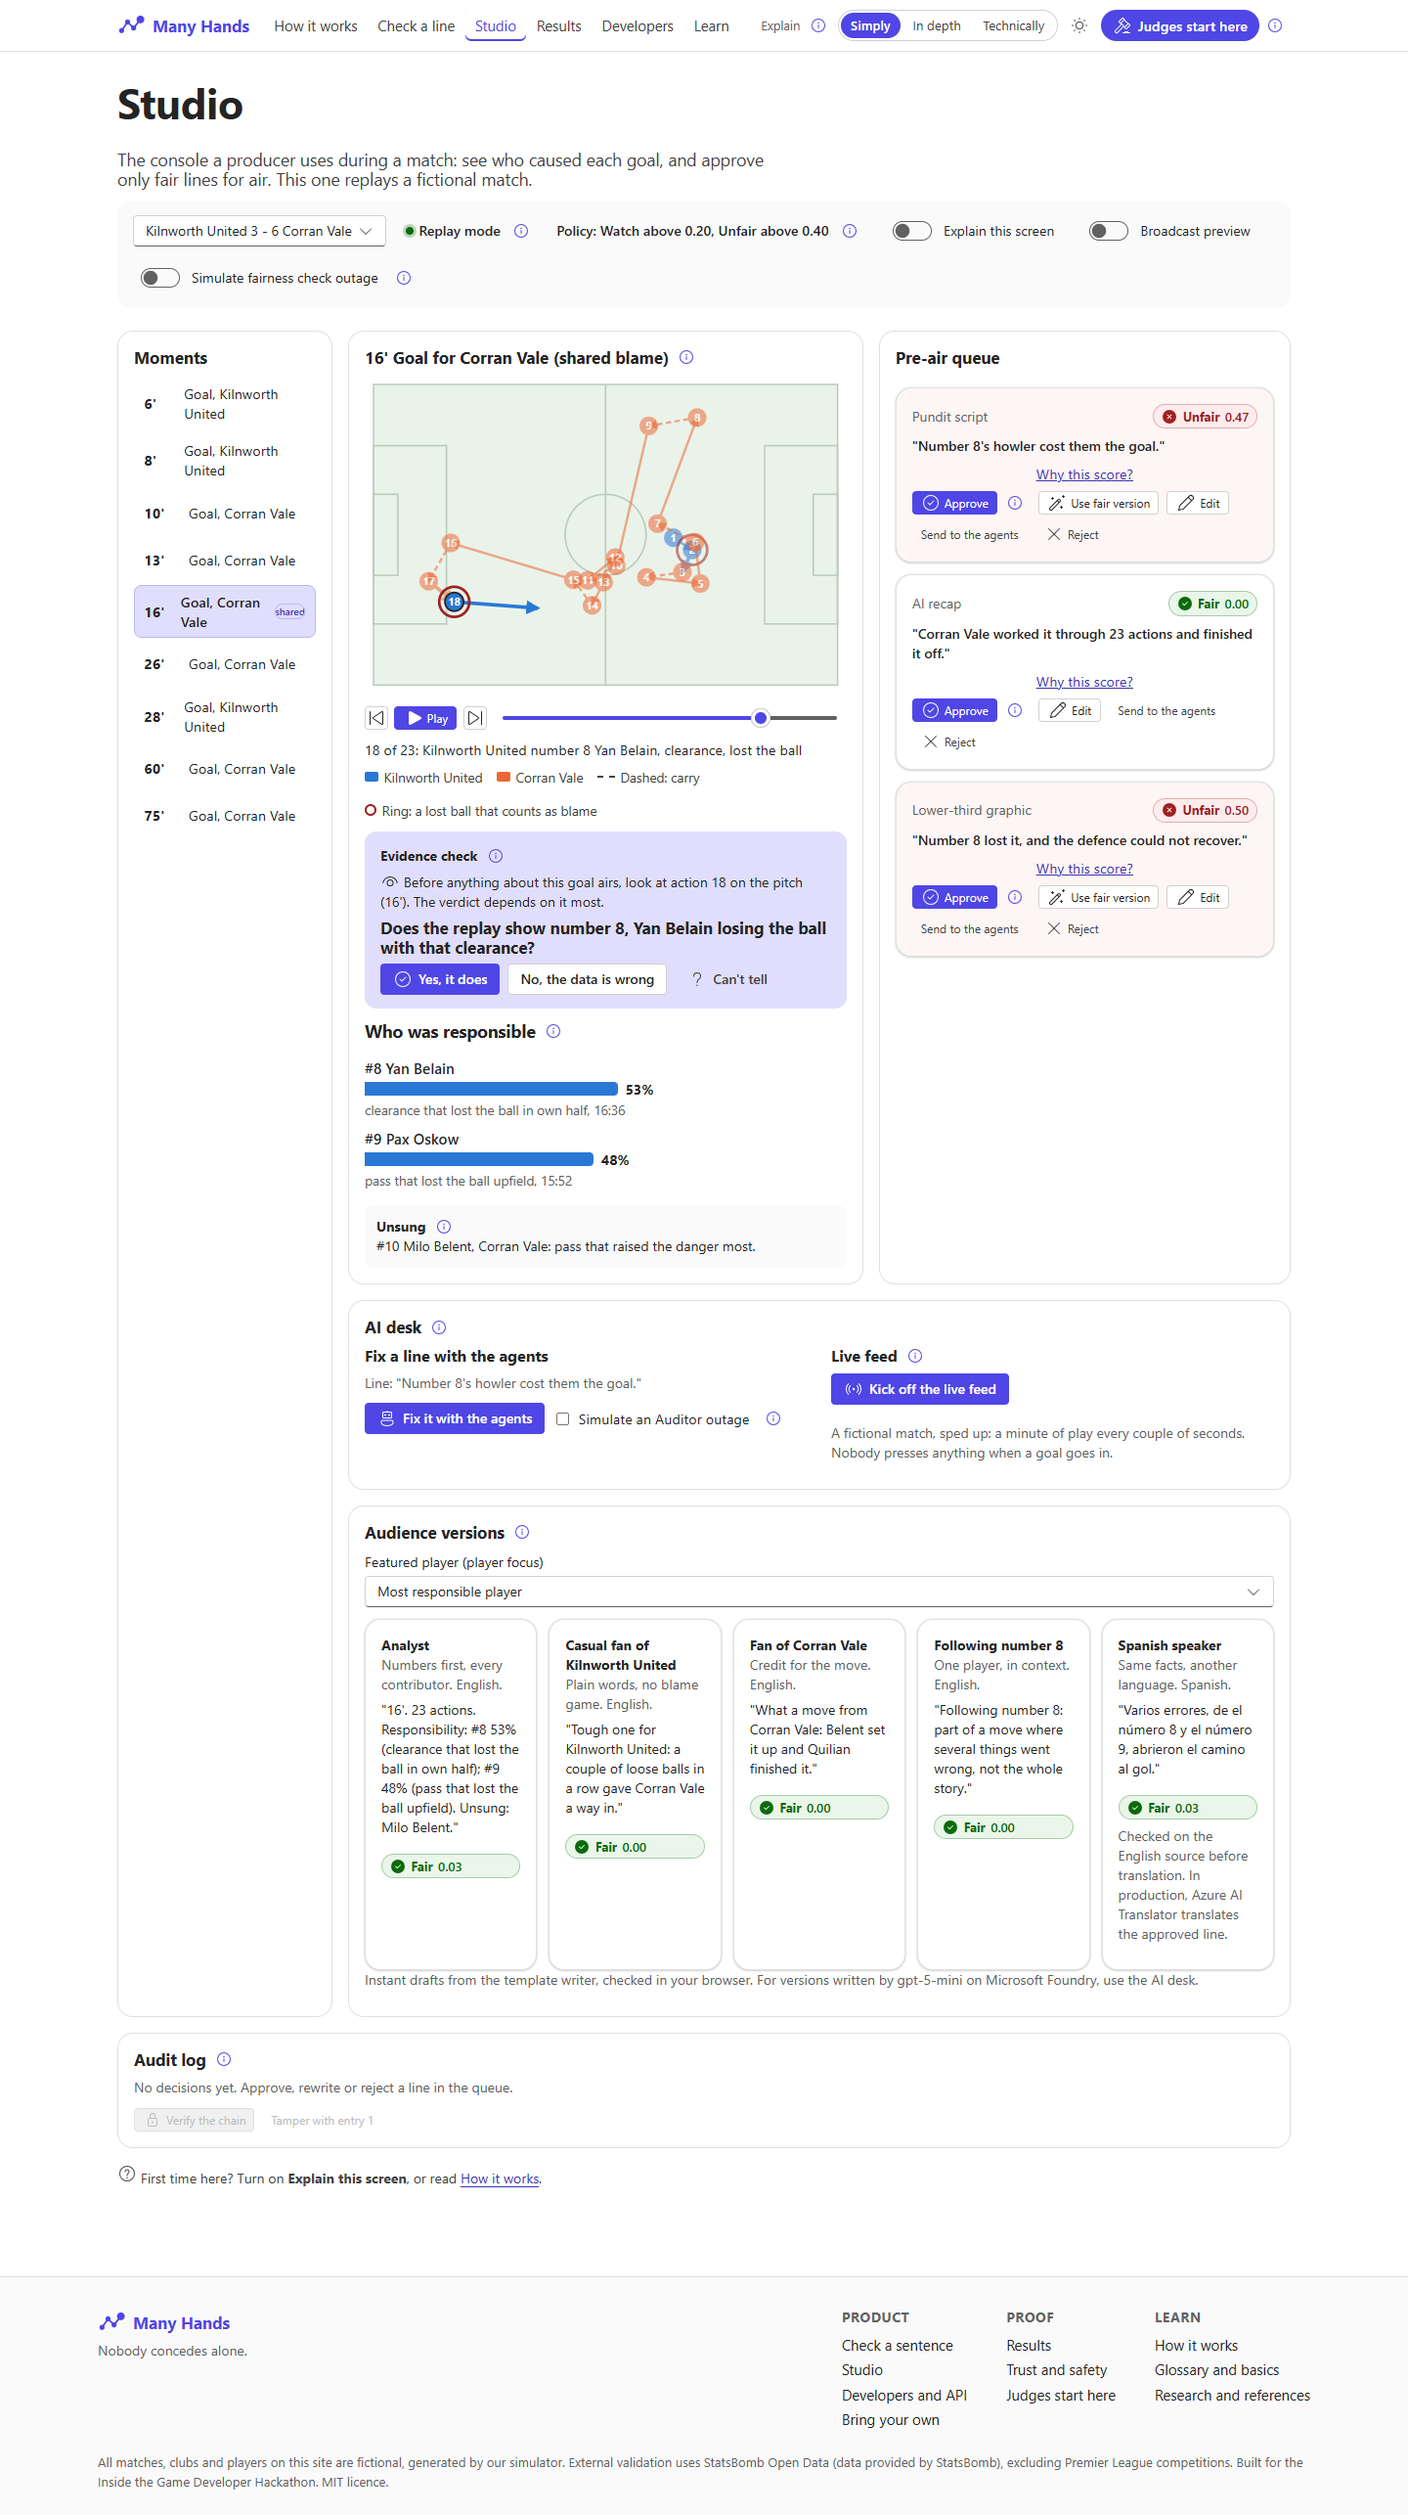
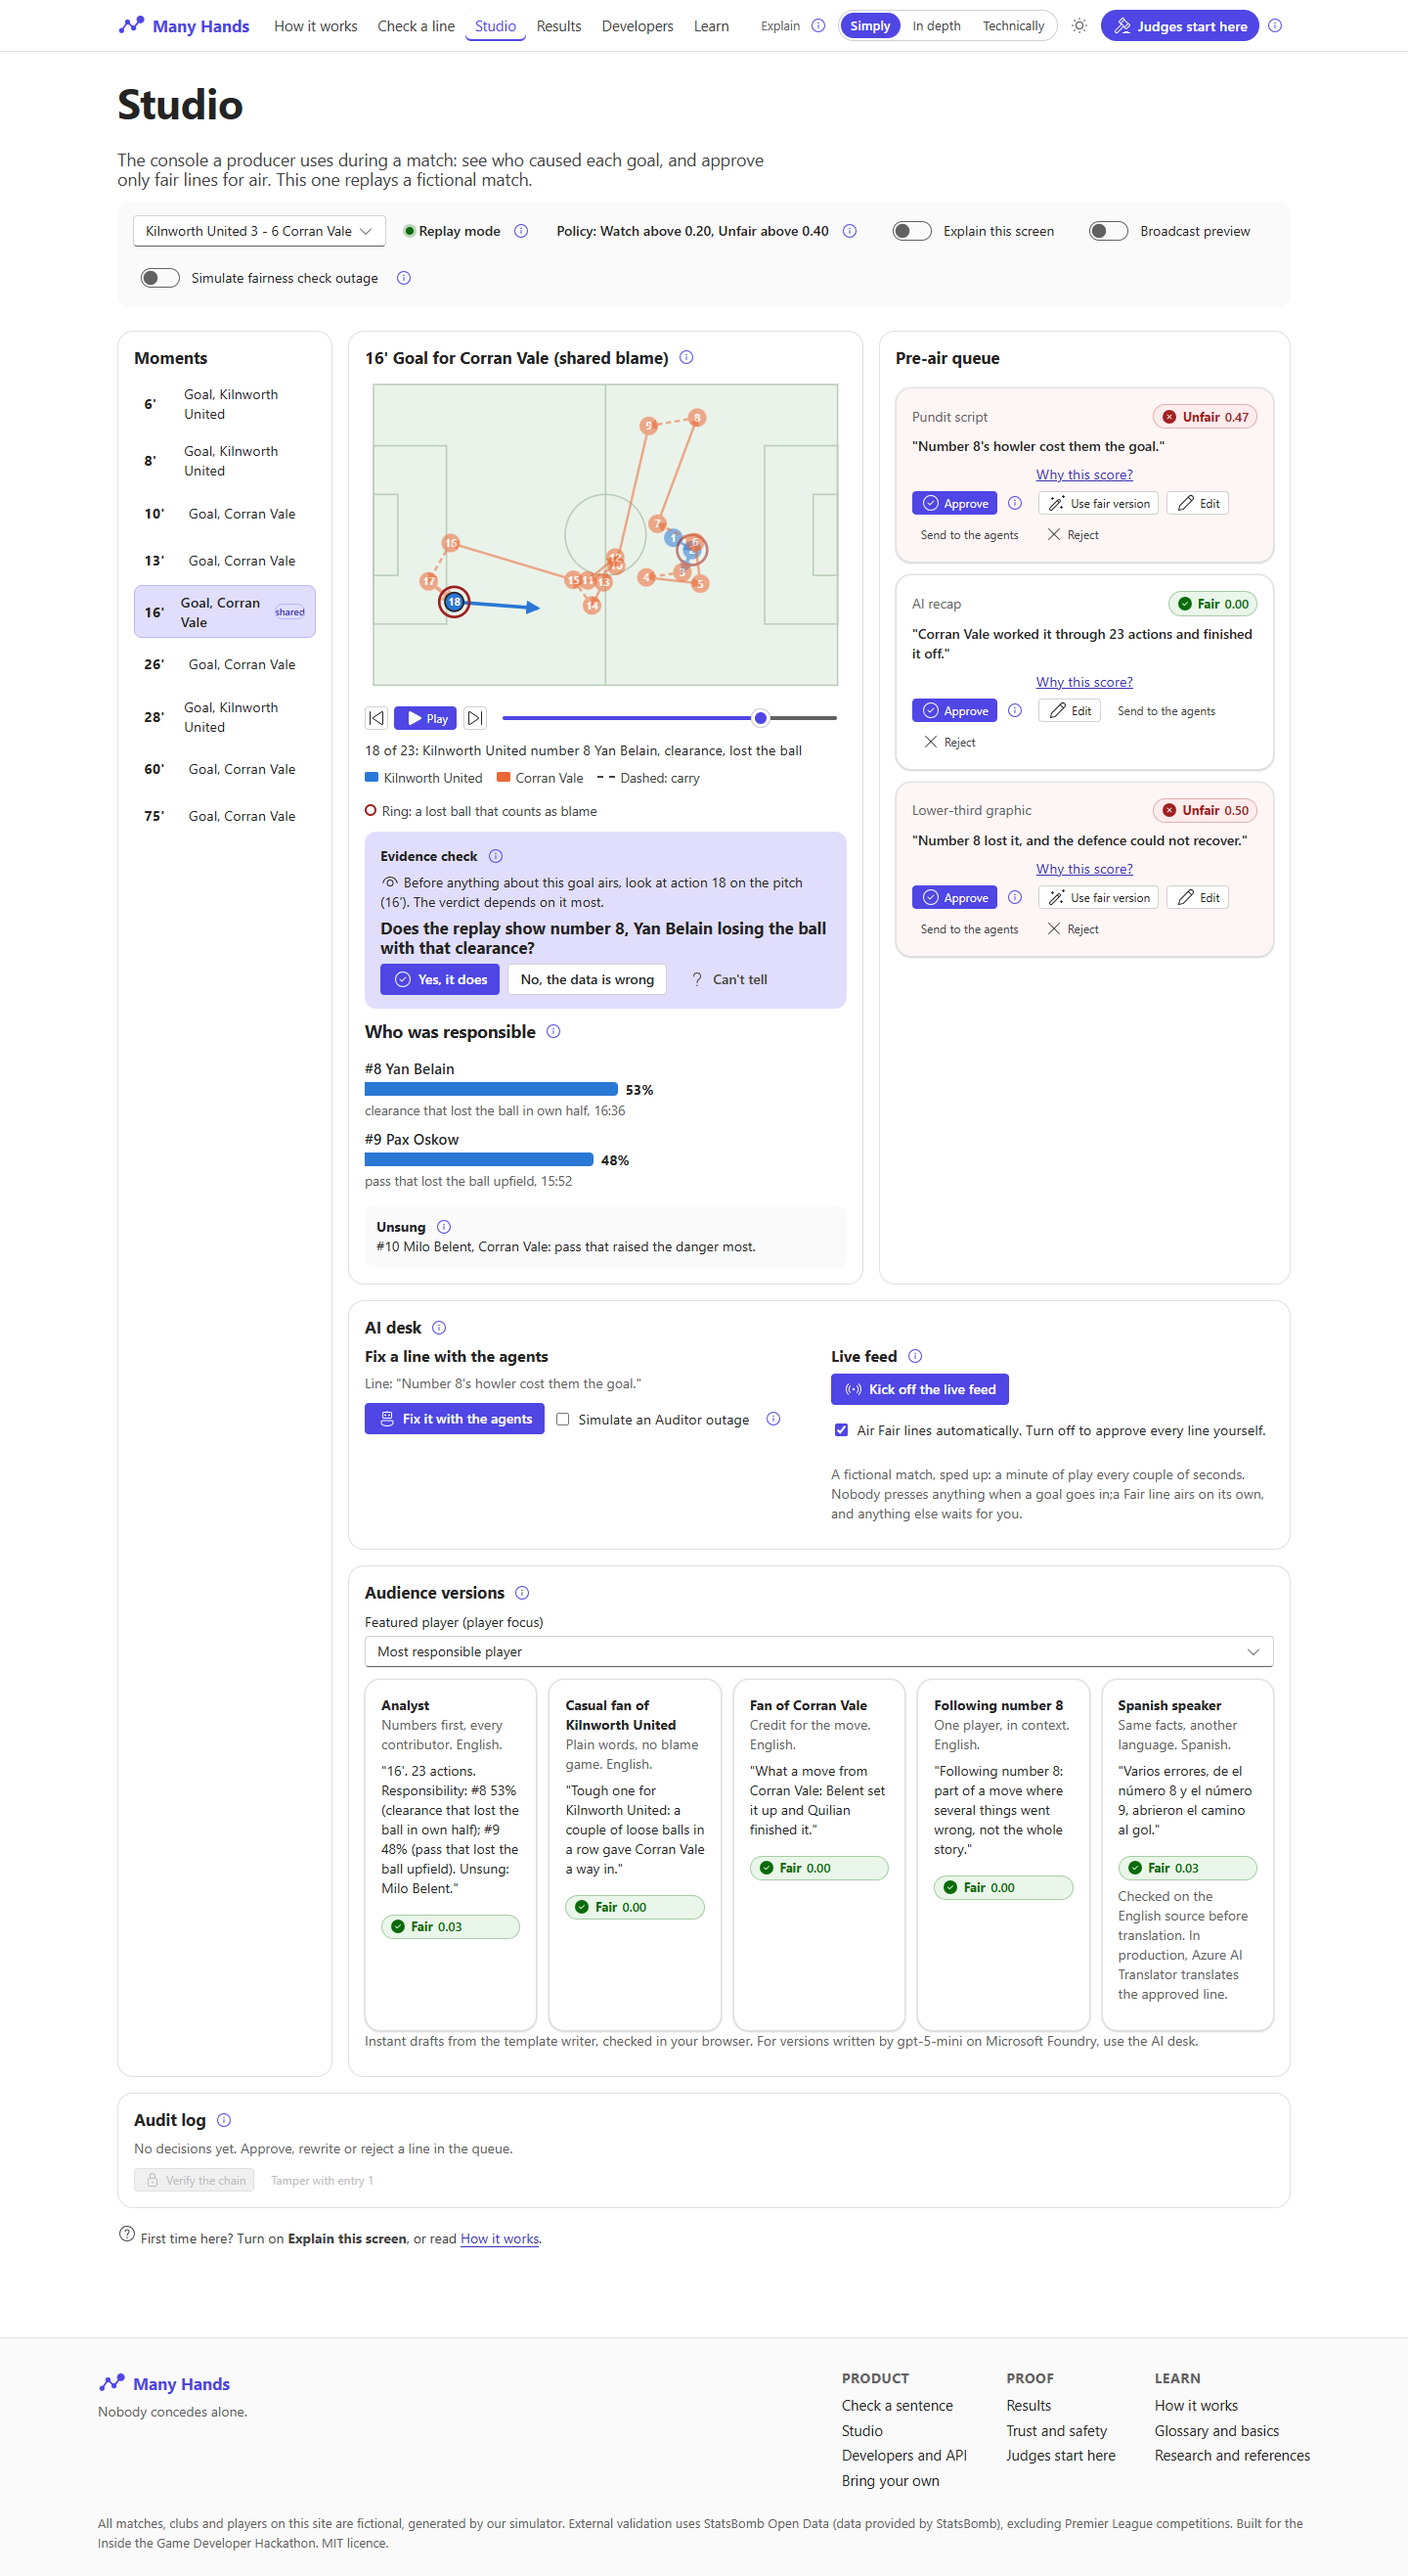
Scoreline dashes survive cleaning; stacked version rows; live timing at graphic send

diff --git a/apps/web/src/styles.css b/apps/web/src/styles.css
@@ -460,13 +460,12 @@ main:focus { outline: none; }
 .mh-live-latency { font-size: 0.85rem; color: var(--colorBrandForeground1); font-weight: 650; }
 /* The audience versions the Personalizer wrote, each with its own audit. */
 .mh-versions { list-style: none; padding: 0; margin: 0; display: grid; gap: 0.4rem; }
-.mh-version { display: grid; grid-template-columns: 9.5rem 1fr auto; gap: 0.25rem 0.75rem; align-items: start;
+.mh-version { display: grid; grid-template-columns: 1fr auto; gap: 0.3rem 0.75rem; align-items: center;
   padding: 0.6rem 0.75rem; border-radius: 10px; background: var(--colorNeutralBackground2); }
 .mh-version-who { font-weight: 650; font-size: 0.9rem; }
-.mh-version p { margin: 0; }
-.mh-version-note { grid-column: 2 / -1; font-size: 0.85rem; color: var(--colorNeutralForeground2); }
+.mh-version p, .mh-version-note { grid-column: 1 / -1; margin: 0; }
+.mh-version-note { font-size: 0.85rem; color: var(--colorNeutralForeground2); }
 .mh-version.is-held { background: color-mix(in srgb, var(--mh-unfair-bg) 50%, var(--colorNeutralBackground2)); }
-@media (max-width: 640px) { .mh-version { grid-template-columns: 1fr auto; } .mh-version p, .mh-version-note { grid-column: 1 / -1; } }
 @media (prefers-reduced-motion: reduce) { .mh-trace-step, .mh-live-goal { animation: none; } }
 
 /* Phone: the hero headline and its card must never push the page sideways */

diff --git a/apps/web/src/pages/Home.tsx b/apps/web/src/pages/Home.tsx
@@ -277,7 +277,7 @@ export default function Home() {
         <div className="mh-facts-row">
           <article className="mh-stat">
             <p className="mh-stat-num">{det ? `${pc(det.justified_blame_wrongly_flagged.value)} vs ${pc(det.justified_blame_wrongly_flagged_last_touch.value)}` : "..."}</p>
-            <p><Term id="negativeControl">Deserved blame wrongly called Unfair</Term>: Many Hands versus <Term id="lastTouch">last-touch blame</Term>, scored against the known true cause. Fair both ways.</p>
+            <p><Term id="negativeControl">Deserved blame wrongly called Unfair</Term>: Many Hands versus blaming whoever lost the ball last, scored against the known true cause. Fair both ways.</p>
             <p className="mh-small mh-muted"><Term id="synthetic">Synthetic league</Term>, matches held out from tuning.</p>
           </article>
           <article className="mh-stat">

diff --git a/apps/web/src/components/LiveFeed.tsx b/apps/web/src/components/LiveFeed.tsx
@@ -143,7 +143,7 @@ export function LiveFeed({ data, live }: { data: MatchData; live: boolean }) {
           Every record is also written to Event Hubs. <a href="/v1/log" target="_blank" rel="noreferrer">See the log</a>
         </p>
       )}
-      <p className="mh-small mh-muted">A fictional match, sped up: a minute of play every couple of seconds. Nobody presses anything when a goal goes in;
+      <p className="mh-small mh-muted">A fictional match, sped up: a minute of play every couple of seconds. Nobody presses anything when a goal goes in;{" "}
         {autoAir ? "a Fair line airs on its own, and anything else waits for you." : "every line waits for you."}</p>
     </div>
   );

diff --git a/services/agents/models.py b/services/agents/models.py
@@ -20,6 +20,7 @@ from agent_framework import Agent
 TIMEOUT_S = float(os.environ.get("MANYHANDS_MODEL_TIMEOUT", "12"))
 FAST = {"reasoning": {"effort": "minimal"}}  # measured: 1.3 s per line versus 5.6 s by default
 DASHES = re.compile(r"\s*[‒–—―]\s*")
+SCORE_DASH = re.compile(r"(\d)\s*[‒–—―]\s*(\d)")  # "2–3" is a scoreline, not a pause: keep it as "2-3"
 QUOTES = str.maketrans({"‘": "'", "’": "'", "“": '"', "”": '"'})
 
 
@@ -73,7 +74,7 @@ FIELD_LEAK = re.compile(r"\b[a-z]+_[a-z_]+\b\s*:?")  # e.g. "score_after:" copie
 
 def clean(text: str) -> str:
     """House style: straight quotes, no em or en dashes, no surrounding quotes, single line."""
-    text = DASHES.sub(", ", text.strip().translate(QUOTES)).replace("\n", " ")
+    text = DASHES.sub(", ", SCORE_DASH.sub(r"\1-\2", text.strip().translate(QUOTES))).replace("\n", " ")
     return text.strip().strip('"').strip()
 
 

diff --git a/tests/test_models.py b/tests/test_models.py
@@ -19,6 +19,11 @@ def test_dashes_and_newlines_removed():
     assert clean(f"A goal {EM_DASH} a fine one\nreally") == "A goal, a fine one really"
 
 
+def test_a_scoreline_dash_stays_a_scoreline():
+    assert clean("Corran Vale lead 3–2 now") == "Corran Vale lead 3-2 now"
+    assert clean("Kilnworth 2 – 3 Corran") == "Kilnworth 2-3 Corran"
+
+
 def test_field_name_leaks_are_found():
     assert leaked_fields("Goal for Corran Vale. Score_after: Kilnworth 2 Corran 3") == ["score_after"]
     assert leaked_fields("Corran Vale lead 3-2 after a loose ball from number 8.") == []

diff --git a/README.md b/README.md
@@ -1,6 +1,6 @@
 # Many Hands
 
-**Microsoft Foundry agents trace every goal back through every player who contributed to it, catch scapegoating lines before they air, and have a fair line ready about 3 seconds after the goal.**
+**Microsoft Foundry agents trace every goal back through every player who contributed to it, catch scapegoating lines before they air, and put a fair line on air about 3 seconds after the goal.**
 
 > **A pundit is about to say:** "Number 8's howler cost them the goal."  **Unfair**
 > **Many Hands puts on air:** "A loose clearance by number 8 and a misplaced pass from number 9 led to Rafe Quilian's goal."  **Fair**
@@ -11,7 +11,7 @@
 
 | On a match day | |
 |---|---|
-| **About 3 s** | from a goal reaching Azure Event Hubs to a fair, checked line ready for air (medians of 2.9 s and 3.2 s on two live runs of 14 goals each, two matches at once; the slowest took 7.2 s). All five audience versions follow by 7.7 s. |
+| **About 3 s** | from a goal reaching Azure Event Hubs to a fair line on air, sent to the broadcaster's graphics hub (median 3.2 s over 14 live goals, two matches at once; the slowest took 8.6 s). The five audience versions follow by 9.5 s and never delay it. |
 | **$4.91 a season** | model cost to check every goal of a 380-match season, about 1.3 cents a match, from the tokens each agent call actually used |
 | **77% right** | when the check calls a line Unfair, scored against the known true cause on 29 held-out matches (10 of 13). It wrongly calls deserved blame Unfair 6 percent of the time, less often than the last-touch rule (7.5 percent). |
 | **About 51 a season** | one-culprit stories the check would call Unfair in a 380-match season. An estimate from real tournament data outside the Premier League: 0.5 clear errors a match, and 27 percent of one-culprit lines about them called Unfair. |
@@ -24,7 +24,7 @@ In July 2021, three young England players missed penalties in the Euro 2020 fina
 
 **Why goals.** Blame gathers around goals and big chances, so that is where the agents wake. The same evidence also names the unsung players who built the move, which the Studio shows for every goal.
 
-**Safe by default.** A line the check scores Fair airs at once. Anything else waits for a producer, who needs a typed reason to air it. If the model fails, a fair line written from a template is used; if the fairness check itself cannot run, nothing airs. All of it can be tried in the Studio.
+**Safe by default.** A line the check scores Fair airs at once. Anything else waits for a producer, who needs a typed reason to air it, and a broadcaster can switch off automatic airing so every line waits. If the model fails, a fair line written from a template is used; if the fairness check itself cannot run, nothing airs. All of it can be tried in the Studio.
 
 ## Try it in three minutes
 1. **Home:** press "Fix it with the agents, live". A pundit's one-culprit line goes to the agents on Microsoft Foundry and comes back fair, with every agent step and its timing.
